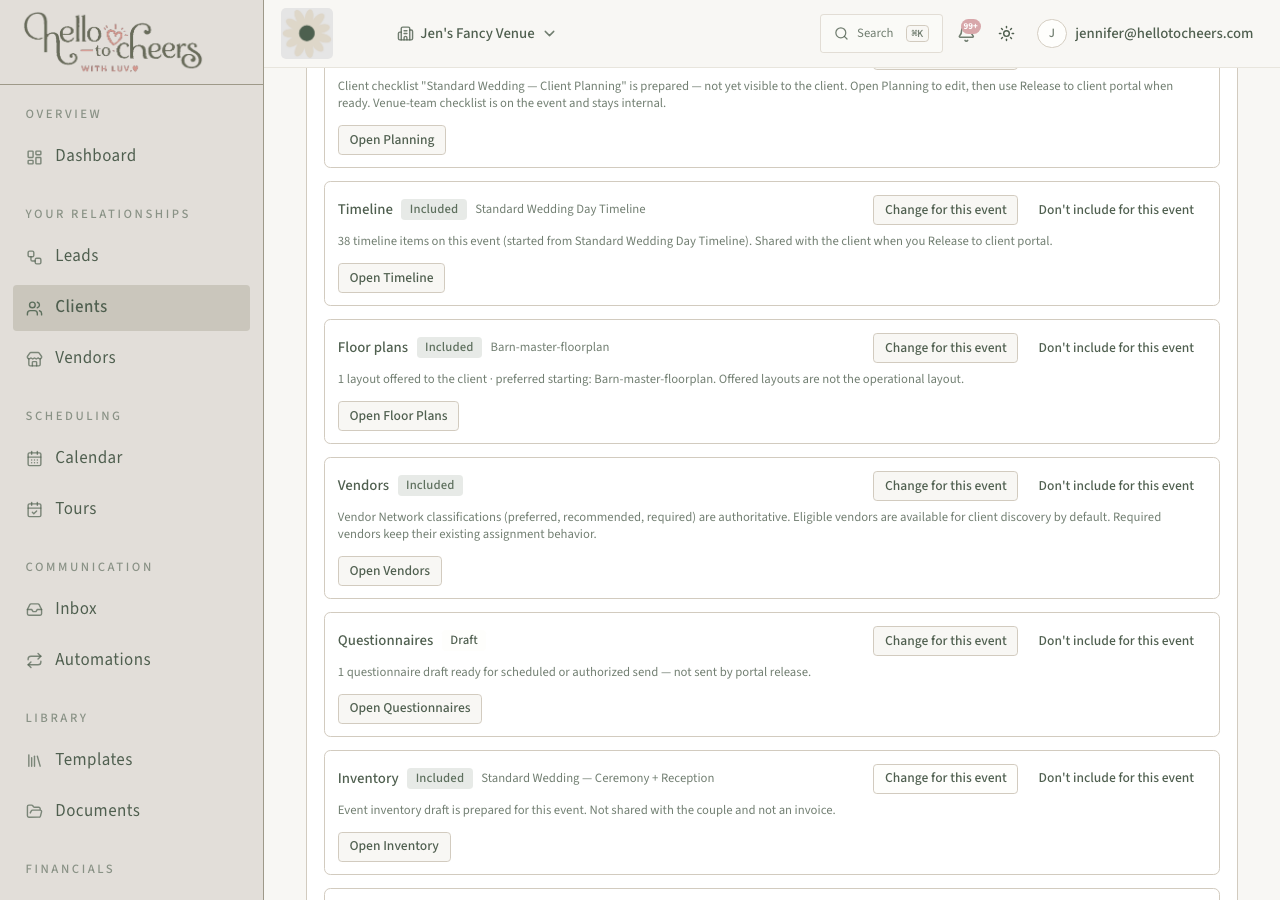
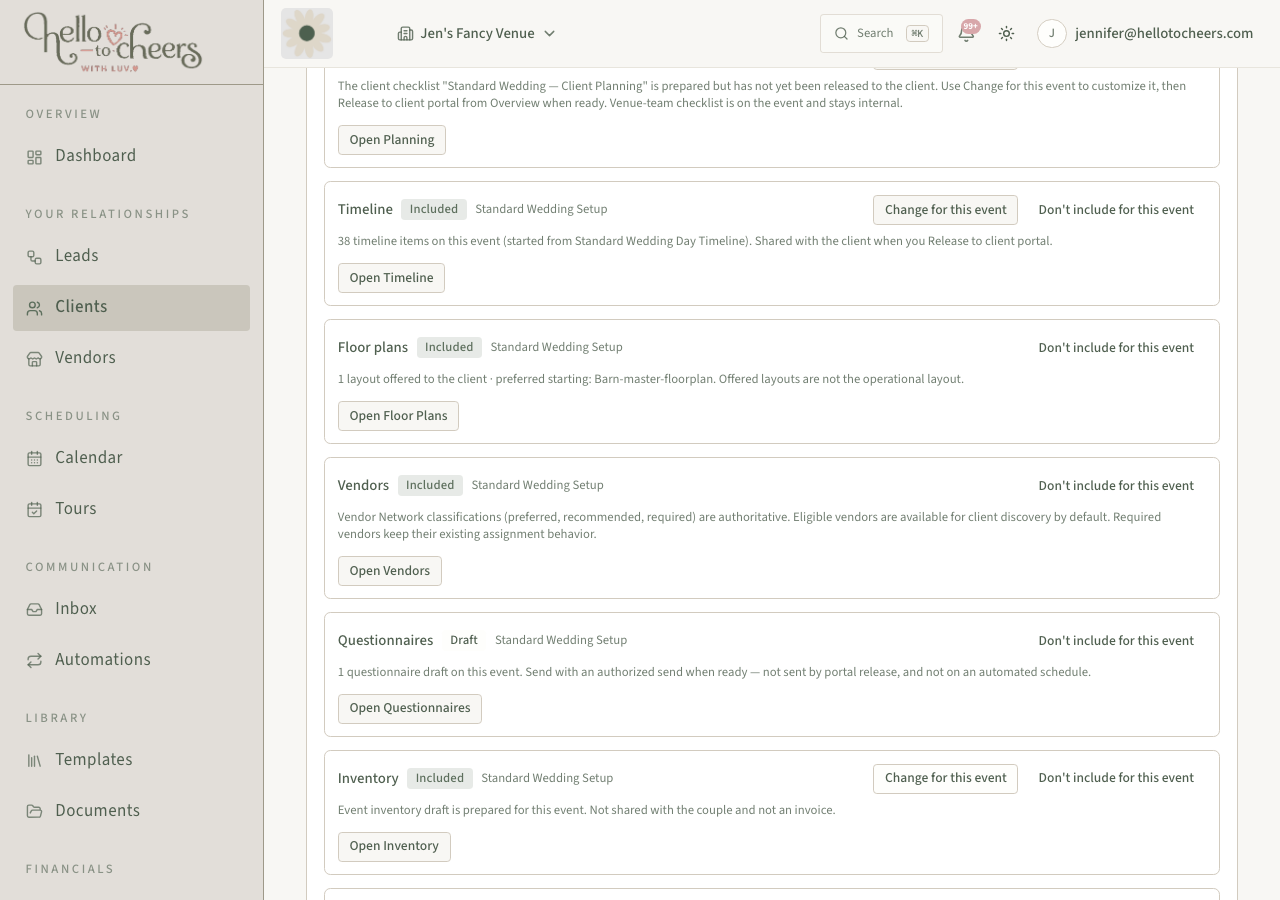
Record Phase 3 Inventory/Event Order setup editor Sandbox acceptance GREEN.

diff --git a/docs/qa/booking-to-portal-simplification/STATUS.md b/docs/qa/booking-to-portal-simplification/STATUS.md
@@ -1,40 +1,50 @@
-# Booking-to-portal — Overview Change/Open + release contract
+# Booking-to-portal — Phase 3 (Inventory + Event Order setup editors)
 
 ## Status
 
-**GREEN / CLOSED**
+**GREEN / CLOSED** for Phase 3.
 
-Settings and Setup Profiles remain frozen. Overview Change/Open reach event-specific editors; lifecycle badges are separate from template names; Planning defers release to Overview; Inventory/Event Order stay honest Draft/Included (not Unavailable).
+Settings and Setup Profiles remain frozen. Accepted client Planning, venue Planning, and Timeline editors preserved. Inventory and Event Order now have dedicated `Change for this event` setup editors; `Open Inventory` / `Open Event Order` remain management workspaces. Floor Plans, Vendors, and Questionnaires still defer Change editors.
 
 ## Serving
 
 | Item | Value |
 |------|-------|
 | Branch | `feat/spaces-booking-e1-smart-fields` |
-| Product commit | `1296269db8e657db68646b24403f38eb1ca66bfe` |
-| Deploy | [39669700742](https://github.com/jlcormier612/wevenu-website/actions/runs/39669700742) **success** |
-| Serving SHA | `1296269db8e657db68646b24403f38eb1ca66bfe` (exact match) |
+| Product commit | `65fde46a341312cd1678a471997b89bdfcae5152` |
+| Deploy | [39689077642](https://github.com/jlcormier612/wevenu-website/actions/runs/39689077642) **success** |
+| Serving SHA | `65fde46a341312cd1678a471997b89bdfcae5152` (`data-dpl-id` + font `dpl=` query) |
 | Settings/Profiles | Unmodified |
-
-## Root causes fixed
-
-1. **Change for this event** opened Set up / Skip instead of the event workspace.
-2. Overview badges appended the profile name onto every lifecycle status.
-3. Planning draft offered a second Release CTA; missing venue empty-state was generic when a profile template exists.
-4. (Prior) Inv/EO Unavailable — retained from `0ff9098b`.
+| Planning + Timeline editors | Intact (regressions still pass) |
 
 ## Acceptance
 
 ```bash
-EXPECTED_SHA=1296269db8e657db68646b24403f38eb1ca66bfe \
+EXPECTED_SHA=65fde46a341312cd1678a471997b89bdfcae5152 \
   npx tsx scripts/qa/booking-to-portal-simplification-acceptance.mts
 ```
 
-**48/48 PASS** against serving `1296269d…`
+**71/71 PASS** against serving `65fde46a…`
 
-Fixture: client `048eeacd-4c9e-451f-844b-0f0d303f3cf9` / event `b6fe91c2-255d-4220-b9dd-157eaca8ce83`.
+Fixture: lead `c7baaf38-…` / client `e2734e02-…` / event `486b67d5-…`
 
-Key gates: Change ≠ Set up/Skip; Open Planning → `planning-task-list` + `planning-edit`; no Inv/EO Unavailable; single Release; venue checklist honest; invite separate; no Q/invoice side effects.
+Evidence: `browser-results.json`, `browser-run.log`, screenshots `03b`–`03g`, `04`, `05`.
+
+### Phase 3 highlights
+
+- Inventory Change opens `event-inventory-setup-editor`; customize item persisted; template replace kept single draft; Library template item count unchanged (32→32).
+- Event Order Change opens `event-order-setup-editor`; customize line persisted (open, not shared); package replace kept single draft; Library package unchanged.
+- Open Inventory / Open Event Order reach management tabs (`#inventory`, `#event-order`).
+- Release idempotent (inv=1, eo=1); no invite/Q-send/invoice from prepare; invite remains separate.
+- Floor/Vendors/Q Change still hidden.
+
+## Unit / seam
+
+Focused `lib/event-setup/*.test.ts` — **145/145 PASS** (includes `inventory-eo-setup-editor.test.ts`).
+
+## Deferred (later phases)
+
+Floor-plan offers editor, Vendors, Questionnaire-draft editors.
 
 ## Production
 
